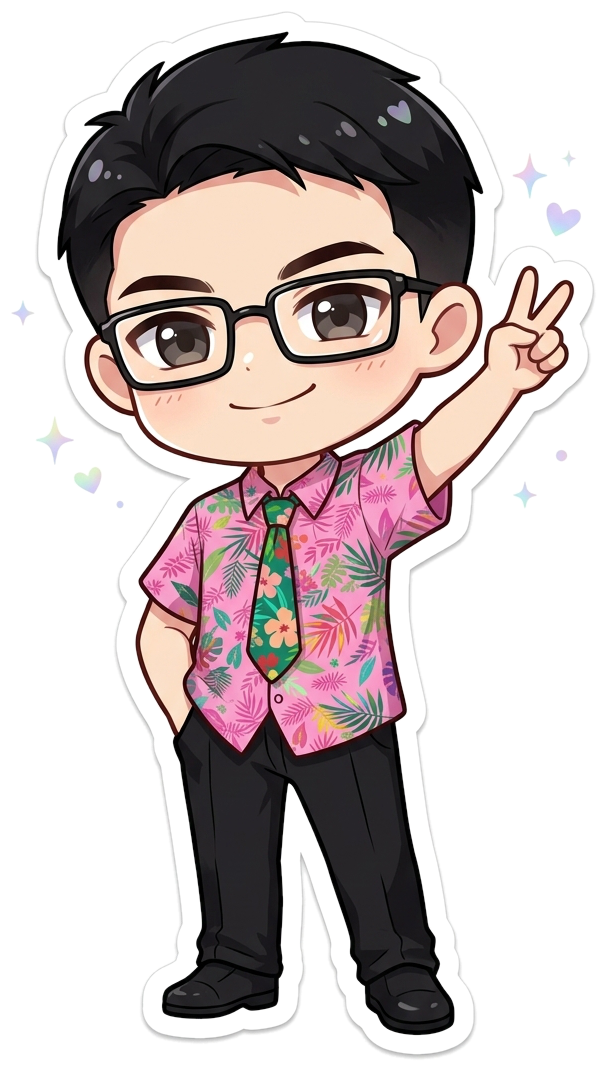
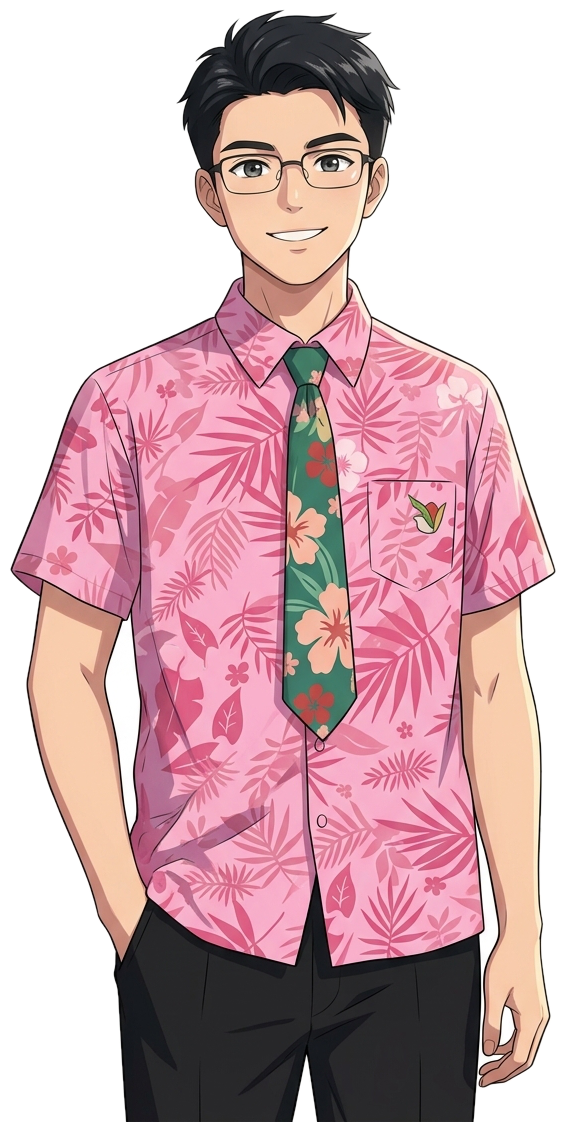
Regenerate high-aesthetic boy templates: Sunshine photographer & refined Hawaiian shirt

diff --git a/pet_widget.py b/pet_widget.py
@@ -81,15 +81,17 @@ class BubbleParticle:
 class DesktopPetWidget(QWidget):
     """Main Desktop Pet Window."""
 
-    STYLE_GIRL_CHIBI = "girl_chibi"
+    STYLE_BOY_SUNSHINE = "boy_sunshine"
     STYLE_BOY_HAWAIIAN = "boy_hawaiian"
+    STYLE_GIRL_CHIBI = "girl_chibi"
     STYLE_GIRL_CARD = "girl_card"
     STYLE_BOY_HAWAIIAN_CARD = "boy_hawaiian_card"
     STYLE_BOY_SUNSHINE_CARD = "boy_sunshine_card"
 
     ALL_STYLES = [
-        STYLE_GIRL_CHIBI,
+        STYLE_BOY_SUNSHINE,
         STYLE_BOY_HAWAIIAN,
+        STYLE_GIRL_CHIBI,
         STYLE_GIRL_CARD,
         STYLE_BOY_HAWAIIAN_CARD,
         STYLE_BOY_SUNSHINE_CARD,
@@ -107,8 +109,8 @@ class DesktopPetWidget(QWidget):
         self.setAttribute(Qt.WA_TranslucentBackground)
         self.setAttribute(Qt.WA_ShowWithoutActivating, False)
 
-        # Pet states & appearance
-        self.current_style = self.STYLE_GIRL_CHIBI
+        # Pet states & appearance (default to the newly regenerated sunshine boy!)
+        self.current_style = self.STYLE_BOY_SUNSHINE
         self.current_state = self.STATE_IDLE
         self.target_width = 220
         self.enable_bubbles = True
@@ -168,9 +170,10 @@ class DesktopPetWidget(QWidget):
     def load_assets(self):
         """Load pixmaps for all chibi characters and photo cards."""
         assets_map = {
+            "boy_sunshine": "pet_boy_sunshine.png",
+            "boy_hawaiian": "pet_boy_hawaiian.png",
             "girl_idle": "pet_idle.png",
             "girl_cheer": "pet_cheer.png",
-            "boy_hawaiian": "pet_boy_hawaiian.png",
             "girl_card": "pet_photo_card.png",
             "boy_hawaiian_card": "pet_boy_hawaiian_card.png",
             "boy_sunshine_card": "pet_boy_sunshine_card.png",
@@ -306,13 +309,15 @@ class DesktopPetWidget(QWidget):
 
         # 2. Select Sprite Pixmap based on current style
         active_pix = None
-        if self.current_style == self.STYLE_GIRL_CHIBI:
+        if self.current_style == self.STYLE_BOY_SUNSHINE:
+            active_pix = self.pixmaps.get("boy_sunshine")
+        elif self.current_style == self.STYLE_BOY_HAWAIIAN:
+            active_pix = self.pixmaps.get("boy_hawaiian")
+        elif self.current_style == self.STYLE_GIRL_CHIBI:
             if self.current_state == self.STATE_CHEER:
                 active_pix = self.pixmaps.get("girl_cheer") or self.pixmaps.get("girl_idle")
             else:
                 active_pix = self.pixmaps.get("girl_idle")
-        elif self.current_style == self.STYLE_BOY_HAWAIIAN:
-            active_pix = self.pixmaps.get("boy_hawaiian")
         elif self.current_style == self.STYLE_GIRL_CARD:
             active_pix = self.pixmaps.get("girl_card")
         elif self.current_style == self.STYLE_BOY_HAWAIIAN_CARD:
@@ -424,12 +429,13 @@ class DesktopPetWidget(QWidget):
 
         # Multi-Character & Style Submenu
         style_menu = menu.addMenu("🎭 角色与造型切换")
+        act_b_sunshine = style_menu.addAction("📷 阳光摄影少年 (全新精绘)")
+        act_b_hawaiian = style_menu.addAction("🌺 潮酷花衬衫少年 (全新精绘)")
         act_g_chibi = style_menu.addAction("🌸 泡泡元气少女 (Q版萌系)")
-        act_b_chibi = style_menu.addAction("🌺 潮酷花衬衫少年 (Q版萌系)")
         style_menu.addSeparator()
         act_g_card = style_menu.addAction("✨ 泡泡仙女 (写真卡片)")
         act_b_card1 = style_menu.addAction("🛍 潮酷少年 (写真卡片)")
-        act_b_card2 = style_menu.addAction("📷 阳光摄影师 (写真卡片)")
+        act_b_card2 = style_menu.addAction("☀ 拱桥写真 (写真卡片)")
 
         action_next_style = menu.addAction("🔄 快速切换下一造型")
 
@@ -464,10 +470,12 @@ class DesktopPetWidget(QWidget):
 
         if selected == action_poke or selected == action_cheer:
             self.trigger_cheer()
+        elif selected == act_b_sunshine:
+            self.set_style(self.STYLE_BOY_SUNSHINE)
+        elif selected == act_b_hawaiian:
+            self.set_style(self.STYLE_BOY_HAWAIIAN)
         elif selected == act_g_chibi:
             self.set_style(self.STYLE_GIRL_CHIBI)
-        elif selected == act_b_chibi:
-            self.set_style(self.STYLE_BOY_HAWAIIAN)
         elif selected == act_g_card:
             self.set_style(self.STYLE_GIRL_CARD)
         elif selected == act_b_card1:

diff --git a/README.md b/README.md
@@ -1,9 +1,11 @@
 # 🌟 元气桌面精灵 (Desktop Pet Companion) 🥂🫧
 
 <p align="center">
-  <img src="assets/pet_cheer.png" width="180" alt="Girl Mascot" />
+  <img src="assets/pet_boy_sunshine.png" width="170" alt="Sunshine Photographer" />
   &nbsp;&nbsp;&nbsp;&nbsp;
-  <img src="assets/pet_boy_hawaiian.png" width="180" alt="Boy Mascot" />
+  <img src="assets/pet_cheer.png" width="160" alt="Bubble Girl" />
+  &nbsp;&nbsp;&nbsp;&nbsp;
+  <img src="assets/pet_boy_hawaiian.png" width="160" alt="Hawaiian Boy" />
 </p>
 
 <p align="center">
@@ -22,11 +24,12 @@
 ## ✨ 项目亮点与功能 (Features)
 
 - 🎭 **多角色与丰富造型随心切换 (Multi-Characters & Outfits)**：
-  - **🌸 泡泡元气少女 (Q版萌系)**：轻盈仙女裙、甜美干杯举杯（Cheers! 🥂）、眨眼微笑动作。
-  - **🌺 潮酷花衬衫少年 (Q版萌系)**：帅气黑框眼镜、热带粉色花衬衫与花领带、元气比耶（Peace! ✌）。
+  - **📷 阳光摄影少年 (全新精绘)**：治愈系开朗笑容、经典复古单反、热情挥手问候，充满少年元气！
+  - **🌺 潮酷花衬衫少年 (全新精绘)**：新海诚/京阿尼画风、帅气黑框眼镜、热带粉衬衫与花领带、单手插兜自信微笑。
+  - **🌸 泡泡元气少女 (Q版萌系)**：轻盈仙女裙、甜美举杯干杯（Cheers! 🥂）、眨眼微笑动作。
   - **✨ 泡泡仙女 (写真卡片)**：唯美浪漫的夜景浮动卡片。
   - **🛍 潮酷少年 (写真卡片)**：潮酷商场街拍写真卡片。
-  - **📷 阳光摄影师 (写真卡片)**：阳光下倚靠白石桥的治愈系摄影师写真卡片。
+  - **☀ 拱桥写真 (写真卡片)**：阳光下倚靠白石桥的治愈系摄影师写真卡片。
   - **支持随时右键自由挑选，或一键「🔄 快速切换下一造型」**！
 - 🫧 **动态上升泡泡粒子系统**：
   - 身旁不断升腾起梦幻肥皂泡泡，鼠标点击即可将泡泡戳破，极具沉浸解压感。
